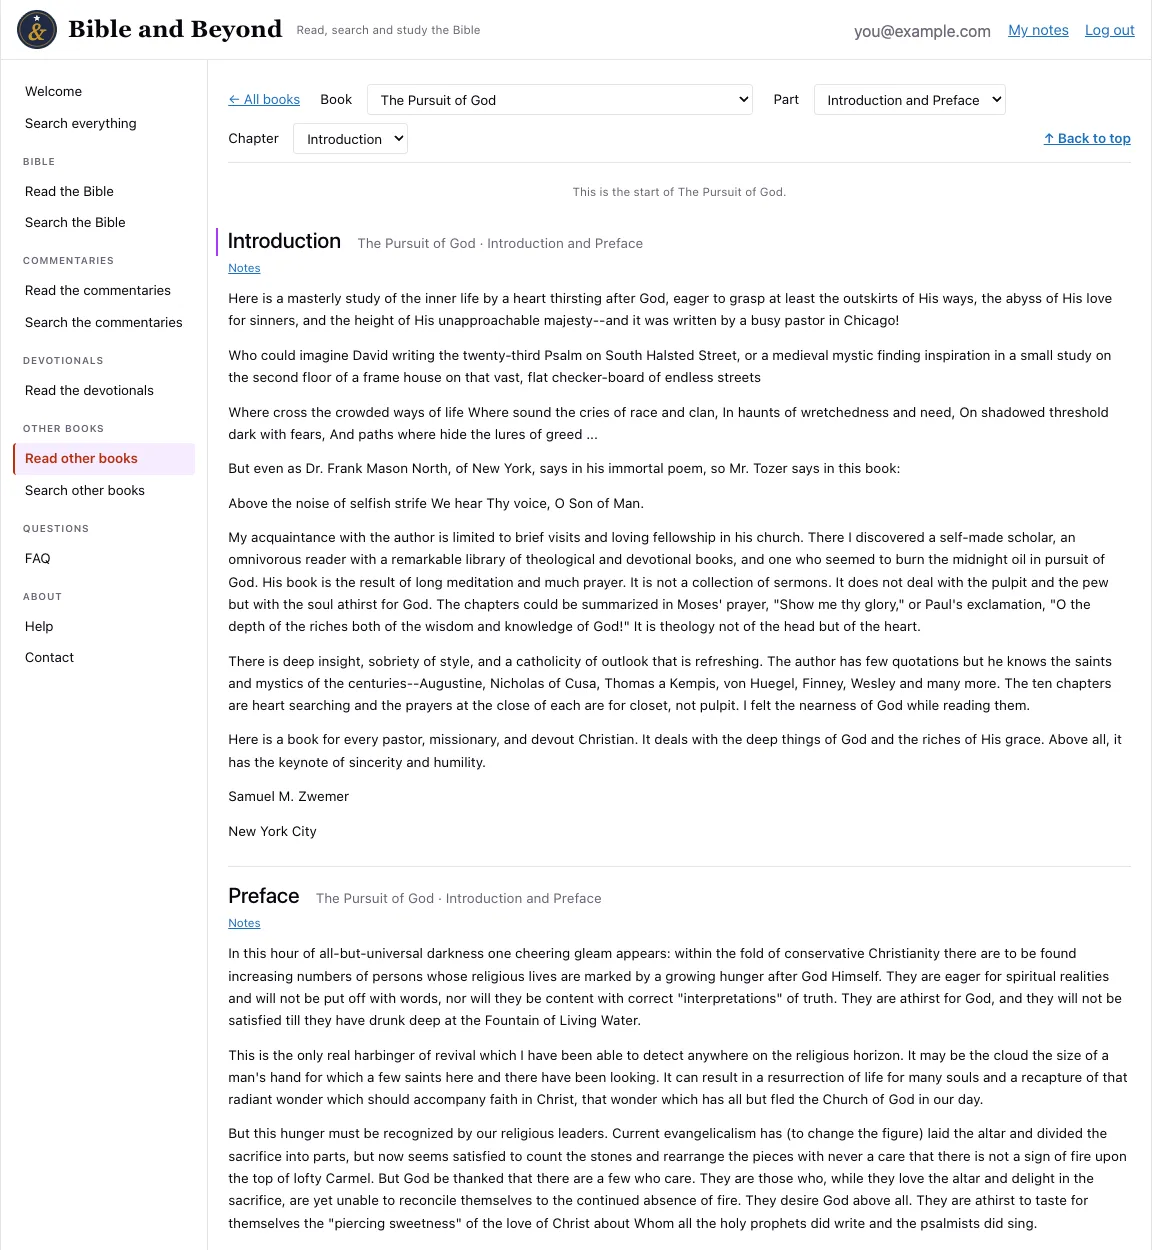
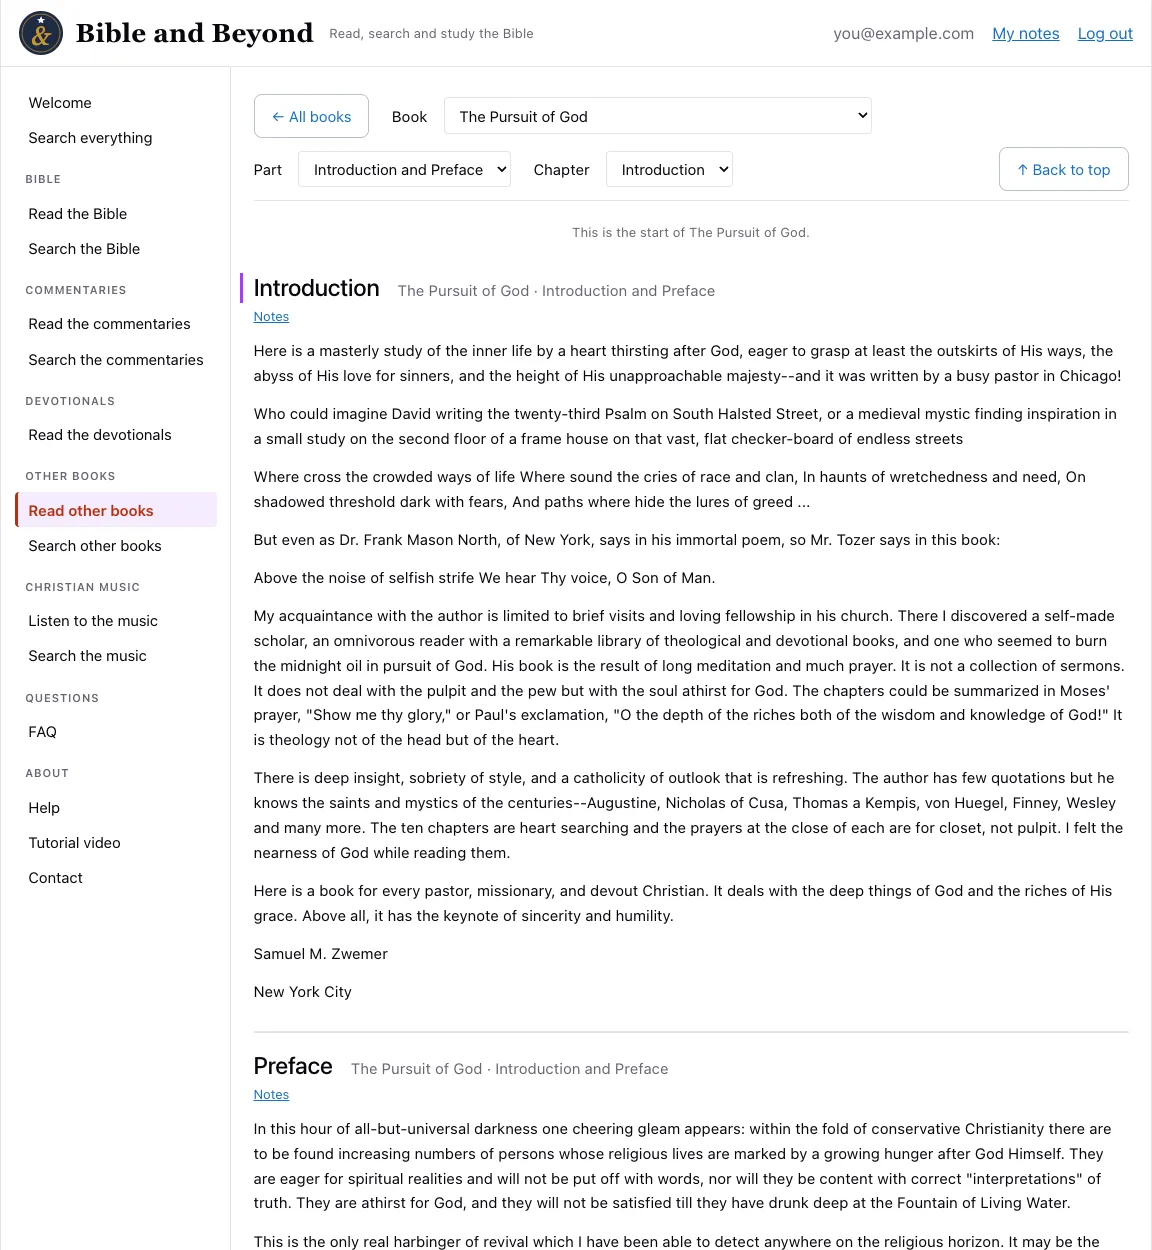
Retake every Help screenshot and make Conversations' actions buttons
All 26 Help screenshots showed the old filled buttons and the sidebar
without Tutorial video; they are retaken from the current site at 1152 wide.
Edit, Delete and Reply under Conversations posts and replies, and their
delete confirmations, are now small outlined buttons.

diff --git a/frontend/src/HelpPage.tsx b/frontend/src/HelpPage.tsx
@@ -267,7 +267,7 @@ function HelpPage({ translations, onNavigate, hasMusic = false }: HelpPageProps)
         </p>
         <Screenshot
           name="verse-menu"
-          width={1139}
+          width={1152}
           height={876}
           alt="The verse menu open on Genesis 1:1 with its seven choices"
           caption="The menu of Genesis 1:1, opened by right-clicking the verse."
@@ -428,9 +428,9 @@ function HelpPage({ translations, onNavigate, hasMusic = false }: HelpPageProps)
         </p>
         <Screenshot
           name="devotionals-open"
-          width={1400}
+          width={1152}
           height={984}
-          alt="The devotional reader showing the November 8 reading of Daily Light on the Daily Path"
+          alt="The devotional reader showing today’s reading of Daily Light on the Daily Path"
           caption="Reading today’s Daily Light, with its references as links."
         />
         <p>
@@ -442,8 +442,8 @@ function HelpPage({ translations, onNavigate, hasMusic = false }: HelpPageProps)
         </p>
         <Screenshot
           name="devotional-email"
-          width={1400}
-          height={527}
+          width={907}
+          height={409}
           alt="The Email me this devotional each day panel with a time of day, a time zone and a button"
           caption="Choosing a time to receive the daily reading by email."
         />
@@ -596,7 +596,7 @@ function HelpPage({ translations, onNavigate, hasMusic = false }: HelpPageProps)
         </ol>
         <Screenshot
           name="faq-own-question"
-          width={1400}
+          width={1152}
           height={984}
           alt="The FAQ page with the Ask your own question box under the list of questions"
           caption="Ask your own question, shown to accounts it has been turned on for."
@@ -648,7 +648,7 @@ function HelpPage({ translations, onNavigate, hasMusic = false }: HelpPageProps)
         </p>
         <Screenshot
           name="note"
-          width={1280}
+          width={1152}
           height={953}
           alt="The notes window for John 1:1 with a note being written"
           caption="Writing a note on John 1:1."
@@ -662,7 +662,7 @@ function HelpPage({ translations, onNavigate, hasMusic = false }: HelpPageProps)
         </p>
         <Screenshot
           name="my-notes"
-          width={1400}
+          width={1152}
           height={1746}
           alt="The My notes page with four notes and the form to add a note on a Bible verse"
           caption="My notes, with a note on a verse, a reading and a commentary note, and the form to add one."
@@ -707,7 +707,7 @@ function HelpPage({ translations, onNavigate, hasMusic = false }: HelpPageProps)
         <Screenshot
           name="conversations"
           width={920}
-          height={917}
+          height={957}
           alt="The Conversations page with two posts by two members, each with a reply, and Edit and Delete on the member's own post and reply"
           caption="Conversations: posts by members, newest first, with their replies, and Edit and Delete on your own."
         />

diff --git a/frontend/src/ConversationPostCard.tsx b/frontend/src/ConversationPostCard.tsx
@@ -71,32 +71,32 @@ function ConversationPostCard({ post, onChanged, onDeleted, highlightTerms }: Co
               only wrapped in <mark> in its text. */}
           <div className="note-body" dangerouslySetInnerHTML={{ __html: shownBody }} />
           {mode === 'confirming' ? (
-            <div className="note-actions" role="alert">
+            <div className="note-actions conversation-actions" role="alert">
               <span>Delete this post?</span>
-              <button type="button" className="link-button danger" disabled={isBusy} onClick={handleDelete}>
+              <button type="button" className="secondary-button small-button danger-button" disabled={isBusy} onClick={handleDelete}>
                 {isBusy ? 'Deleting…' : 'Yes, delete it'}
               </button>
-              <button type="button" className="link-button" disabled={isBusy} onClick={() => setMode('reading')}>
+              <button type="button" className="secondary-button small-button" disabled={isBusy} onClick={() => setMode('reading')}>
                 No, keep it
               </button>
             </div>
           ) : (
             // One line under the post: Edit and Delete for its author, and Reply for every member.
-            <div className="note-actions">
+            <div className="note-actions conversation-actions">
               {post.is_mine && (
                 <>
-                  <button type="button" className="link-button" onClick={() => setMode('editing')}>
+                  <button type="button" className="secondary-button small-button" onClick={() => setMode('editing')}>
                     Edit
                     <span className="visually-hidden"> the post {post.title}</span>
                   </button>
-                  <button type="button" className="link-button" onClick={() => setMode('confirming')}>
+                  <button type="button" className="secondary-button small-button" onClick={() => setMode('confirming')}>
                     Delete
                     <span className="visually-hidden"> the post {post.title}</span>
                   </button>
                 </>
               )}
               {!isReplying && (
-                <button type="button" className="link-button" onClick={() => setIsReplying(true)}>
+                <button type="button" className="secondary-button small-button" onClick={() => setIsReplying(true)}>
                   Reply
                   <span className="visually-hidden"> to {post.title}</span>
                 </button>

diff --git a/frontend/src/ConversationReplyItem.tsx b/frontend/src/ConversationReplyItem.tsx
@@ -68,22 +68,22 @@ function ConversationReplyItem({ reply, postTitle, onChanged, onDeleted, highlig
           <div className="note-body" dangerouslySetInnerHTML={{ __html: shownBody }} />
           {reply.is_mine &&
             (mode === 'confirming' ? (
-              <div className="note-actions" role="alert">
+              <div className="note-actions conversation-actions" role="alert">
                 <span>Delete this reply?</span>
-                <button type="button" className="link-button danger" disabled={isBusy} onClick={handleDelete}>
+                <button type="button" className="secondary-button small-button danger-button" disabled={isBusy} onClick={handleDelete}>
                   {isBusy ? 'Deleting…' : 'Yes, delete it'}
                 </button>
-                <button type="button" className="link-button" disabled={isBusy} onClick={() => setMode('reading')}>
+                <button type="button" className="secondary-button small-button" disabled={isBusy} onClick={() => setMode('reading')}>
                   No, keep it
                 </button>
               </div>
             ) : (
-              <div className="note-actions">
-                <button type="button" className="link-button" onClick={() => setMode('editing')}>
+              <div className="note-actions conversation-actions">
+                <button type="button" className="secondary-button small-button" onClick={() => setMode('editing')}>
                   Edit
                   <span className="visually-hidden"> your reply</span>
                 </button>
-                <button type="button" className="link-button" onClick={() => setMode('confirming')}>
+                <button type="button" className="secondary-button small-button" onClick={() => setMode('confirming')}>
                   Delete
                   <span className="visually-hidden"> your reply</span>
                 </button>

diff --git a/frontend/src/App.css b/frontend/src/App.css
@@ -2506,3 +2506,27 @@ select:disabled {
 .account-other-actions .secondary-button {
   margin-top: 0;
 }
+
+/* Edit, Delete and Reply under Conversations posts and replies: small outlined buttons (the owner's choice,
+   2026-11-12), rather than the links used in other lists. */
+.small-button {
+  margin-top: 0;
+  padding: calc(0.25rem - 1px) calc(0.75rem - 1px);
+  font-size: 0.9rem;
+}
+
+.conversation-actions {
+  gap: 0.5rem;
+}
+
+.danger-button {
+  border-color: #b5300f;
+  color: #b5300f;
+}
+
+@media (prefers-color-scheme: dark) {
+  .danger-button {
+    border-color: #f08a6c;
+    color: #f08a6c;
+  }
+}

diff --git a/CLAUDE.md b/CLAUDE.md
@@ -37,8 +37,8 @@ A web app that answers Bible questions using AI/ML.
 - **Welcome page** (`WelcomePage.tsx`): says what the site is and shows **three cards**, each with its buttons (built from what is loaded): the Bible (Read the Bible and Search the Bible), the commentaries (Read and Search, in the same order as the Bible card) and the devotionals (which mentions the daily email). It has no instructions, no contact section and no notes on the texts: those are on the Help page (the owner moved them there on 2026-11-07). Keep the cards true when features change; it is the page a new visitor reads. **What the cards list is built from what is loaded**, not written in: the Bibles (the published local Bibles, so one uploaded and published in Drupal appears by itself, and the licensed ones from the API.Bible list), the commentaries (their short names) and the devotionals (`describeDevotionals`: the daily ones and the chapter-by-chapter ones are named separately, with their counts, titles in italics). Only the descriptions of the features are fixed text.
 - **Search everything** (`WelcomeSearch.tsx`, under the welcome cards, and a page of its own: "Search everything" in the sidebar, under Welcome, address `/search-all`; it is one mounted search shown in both places, so the words and hits are the same, with an `h1` on its own page and an `h2` under the cards): one search box (match all words, any word or the exact phrase) over the Bible, the commentaries, the devotionals, the other books and the Christian music at once (the music added 2026-11-10, after the owner searched for a song there and did not find it). `GET /search-everything?query=&match_mode=&kind=&page=&per_page=` (`ml-service/site_search.py`) runs the searches that already exist and returns `groups` in that order, 5 hits each by default, leaving out a kind with none: the Bible is **one** Bible (the BSB when published, else the first published local Bible), searched for **whole words** (so "again" does not list every "against"), with `terms` for bold; the commentaries and the books come with excerpts (`search_commentaries`, and `search_library` in `devotionals.py`, which now serves both the devotionals and the books). With `kind` it returns that one group's next page ("Show more verses / notes / readings / passages"). Each hit opens its reader there through a `Destination` ("Read in the Bible", which also takes Shift/Cmd-click for a new tab; "Read the note"; "Read this reading"; "Read this chapter"; "Play this song", which opens the music page at the song through `onOpenSong`). The search is mounted outside the welcome page and only shown on it, so its hits are still there after going Back. Common words cost most: "the of and" took about 0.8 s locally. Tests: `tests/test_site_search.py` (the searches faked).
 - **Footer** (`SiteFooter.tsx`): on every page, in the column to the right of the sidebar (below the page content, starting at the content's left edge; the sidebar and its divider run the full height beside it; on a phone it spans the width). It has **only the site's own line** (the **Copyright** set on the Drupal Site settings screen; "Copyright © 2026 by Paul Carrick. All Rights Reserved." until changed, and no footer at all if it is emptied). Everything about the texts moved to the **Help page** (`HelpPage.tsx`; the owner asked for this on 2026-11-07, choosing it over keeping a one-line API.Bible credit in the footer): how to use the site, accounts, notes and emails, "About the texts", the API.Bible line and the "Bible copyright notices" link, the copyright notice of each licensed Bible (NIV, NASB, The Message) fetched with `fetchCopyrights()` when the page opens (the server keeps them for a day, so about three API.Bible requests a day at most; if they cannot be fetched the page still names the Bibles and links to the notices), the credits that CC BY asks for (STEP Bible, OpenBible.info) and the statement that the other Bibles, the commentaries and the devotionals are public domain. The full notices and credits are on the copyright notices page (`CopyrightPage.tsx`, "Back to Help"). When a work with its own notice is added (a licensed Bible, a Creative Commons data set), add it to the Help page and that page. **A risk the owner accepted:** API.Bible's terms were noted as needing the API.Bible link and the notices link visible; they are now one click away (Help in the sidebar) rather than on every page. The notice of a licensed Bible is still shown with its text under search results (`SearchResults.tsx`: the copyright, the API.Bible link and "Bible copyright notices"). If API.Bible ever objects, put one line back in the footer.
-- **The user guide** (the Help page, `HelpPage.tsx`, rewritten 2026-11-08 at the owner's request): a list of contents (buttons that scroll to each section), then one section per feature with screenshots (`public/help/*.webp`, 25 files, about 2 MB, loaded lazily; `ai-search-results` and `ai-search-options` added 2026-11-11 under the Bible search, taken from the local site as a temporary `you@example.org` account with puppeteer-core at 1152 wide, copies as PNG in the owner's Documents; click opens full size; the three added on 2026-11-10, `music-open`, `music-search` and `apostles-creed` (the Creed with the tooltip of a statement link), were taken from the local site in headless Chrome at 1152 pixels wide and saved with `cwebp -q 80`; the music section and its pictures show only when a song is published), then About the texts, Licensed Bibles and Credits as before. It says plainly that no account is needed, that an account adds notes, daily emails and (on request) your own FAQ questions, and that free-form FAQ questions are asked for through the Contact form after setting up an account. **The screenshots must never show a real person's address**: the owner's were covered with `you@example.com` and the browser bar cropped off; new ones are best taken from the local site logged in as a local account `you@example.com` (it exists only in the local database). Keep the guide true when a feature changes, and retake its screenshot. A full-page screenshot tool stitches the continuous readers wrongly (a day or chapter appears repeated): take those of the visible window only.
-- **Links and buttons** (the owner's rule, 2026-11-12): where actions sit together and one of them is a button, they are **all buttons**. Every button is an outlined box with rounded corners (8 px) and no fill, filling lightly on hover (the owner's choice, 2026-11-12; a lighter blue in dark mode): the main one `primary-button` (blue outline, bold), the others `secondary-button` (grey outline, same size; Cancel, Clear search, Stop, Clear the ticks, Ask another question, "← All commentaries/devotionals/books" and "↑ Back to top" in the reader toolbars). The links at the foot of a form are buttons too (the account forms: Forgot your password?, No account yet? Set one up, Already have an account? Log in, Back to log in; `.account-other-actions`). **Lists of actions stay links** (`link-button`), because they take less room: Edit / Delete / Reply under notes, posts and replies, the verse links under search results, "Read this chapter" and the like in results, the delete confirmations; so do links inside a sentence. Follow this in new pages. The Internet Archive's "Borrow for an hour" button is outlined the same way; only the floating "↑ Back to top" button stays filled, so it shows over the text it floats on.
+- **The user guide** (the Help page, `HelpPage.tsx`, rewritten 2026-11-08 at the owner's request): a list of contents (buttons that scroll to each section), then one section per feature with screenshots (`public/help/*.webp`, 26 files, about 3.3 MB, loaded lazily; **all 26 retaken on 2026-11-12** after the button restyle, the links-to-buttons change and the Tutorial video entry: headless Chrome with puppeteer-core at 1152 wide, `cwebp -q 80`, logged in as the local `you@example.com` through a temporary session row (deleted afterwards, so its password was never touched), the two local songs published for the music pictures and hidden again, the two notes pictures from a temporary `you@example.org` with tidy sample notes (the local account's notes are test scribbles), Conversations from two temporary members; a picture of a reader is the visible window only, a hidden page's elements must not be picked (every page stays mounted), and a select list is shown open by giving it a `size`; `ai-search-results` and `ai-search-options` added 2026-11-11 under the Bible search, taken from the local site as a temporary `you@example.org` account with puppeteer-core at 1152 wide, copies as PNG in the owner's Documents; click opens full size; the three added on 2026-11-10, `music-open`, `music-search` and `apostles-creed` (the Creed with the tooltip of a statement link), were taken from the local site in headless Chrome at 1152 pixels wide and saved with `cwebp -q 80`; the music section and its pictures show only when a song is published), then About the texts, Licensed Bibles and Credits as before. It says plainly that no account is needed, that an account adds notes, daily emails and (on request) your own FAQ questions, and that free-form FAQ questions are asked for through the Contact form after setting up an account. **The screenshots must never show a real person's address**: the owner's were covered with `you@example.com` and the browser bar cropped off; new ones are best taken from the local site logged in as a local account `you@example.com` (it exists only in the local database). Keep the guide true when a feature changes, and retake its screenshot. A full-page screenshot tool stitches the continuous readers wrongly (a day or chapter appears repeated): take those of the visible window only.
+- **Links and buttons** (the owner's rule, 2026-11-12): where actions sit together and one of them is a button, they are **all buttons**. Every button is an outlined box with rounded corners (8 px) and no fill, filling lightly on hover (the owner's choice, 2026-11-12; a lighter blue in dark mode): the main one `primary-button` (blue outline, bold), the others `secondary-button` (grey outline, same size; Cancel, Clear search, Stop, Clear the ticks, Ask another question, "← All commentaries/devotionals/books" and "↑ Back to top" in the reader toolbars). The links at the foot of a form are buttons too (the account forms: Forgot your password?, No account yet? Set one up, Already have an account? Log in, Back to log in; `.account-other-actions`). **Lists of actions stay links** (`link-button`), because they take less room: Edit / Delete under notes, the verse links under search results, "Read this chapter" and the like in results, the delete confirmations; so do links inside a sentence. The exception the owner chose (2026-11-12): **Edit, Delete and Reply under Conversations posts and replies**, and their "Delete this ...?" confirmations, are small outlined buttons (`secondary-button small-button`, `danger-button` for "Yes, delete it"; `.conversation-actions`). Follow this in new pages. The Internet Archive's "Borrow for an hour" button is outlined the same way; only the floating "↑ Back to top" button stays filled, so it shows over the text it floats on.
 - **Tooltips** (`SiteTooltip.tsx`, mounted once at the end of `App.tsx`; style `.site-tooltip` in `App.css`; added 2026-11-09 because the owner found the browser's tooltips too small): a larger tooltip (0.95 rem, dark on light pages, light on dark ones, up to 24 rem wide, kept inside the window, below the element or above it when there is no room) for **every element with a `title`**, so components keep using plain `title` attributes. It shows after 0.4 s of the mouse resting on the element, or at once on keyboard focus (`:focus-visible`), and hides when the pointer leaves, on a click, scroll, resize or Escape; not on touch. On first hover it moves the `title` to `data-tooltip` (so the browser's small one does not also show) and copies it to `aria-description` unless the element has its own description or the same `aria-label`. The Bible reader's verse numbers say: "More for this verse: right-click it, or click its number. Show in Context, Full Chapter, Other Translations, Related Verses, Original Words, Commentaries and Notes." (keep it in step with `verseMenuItems`).
 - The footer is not counted in the "fit screen" sizing of search results and windows (it is below the fold and the reader scrolls to it), so results fill the window as before. The "Back to top" controls (Home key, a button that follows the reader, a link in the choosers and one under the last chapter) go to the top of the page; they were "Back to tabs" until the tabs were replaced.
 
